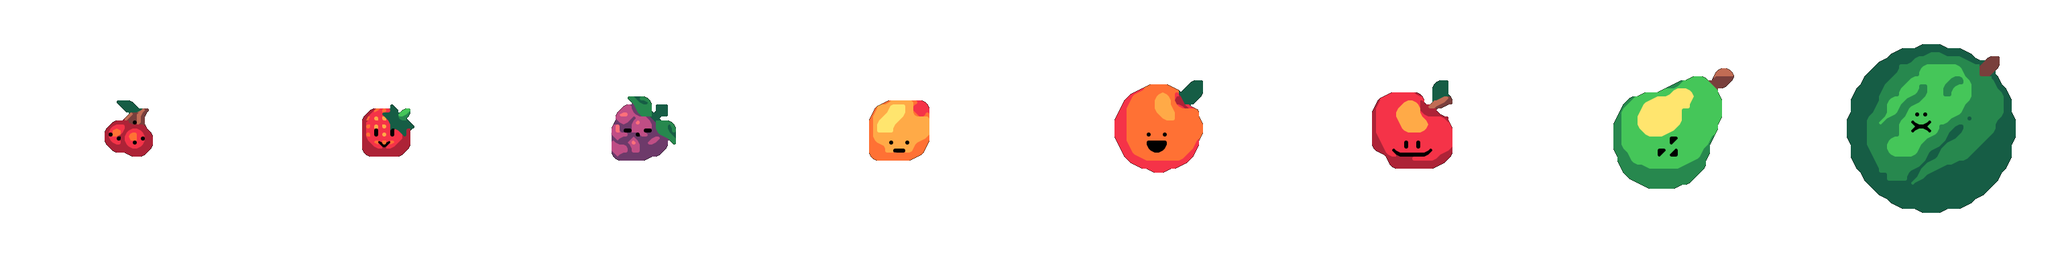
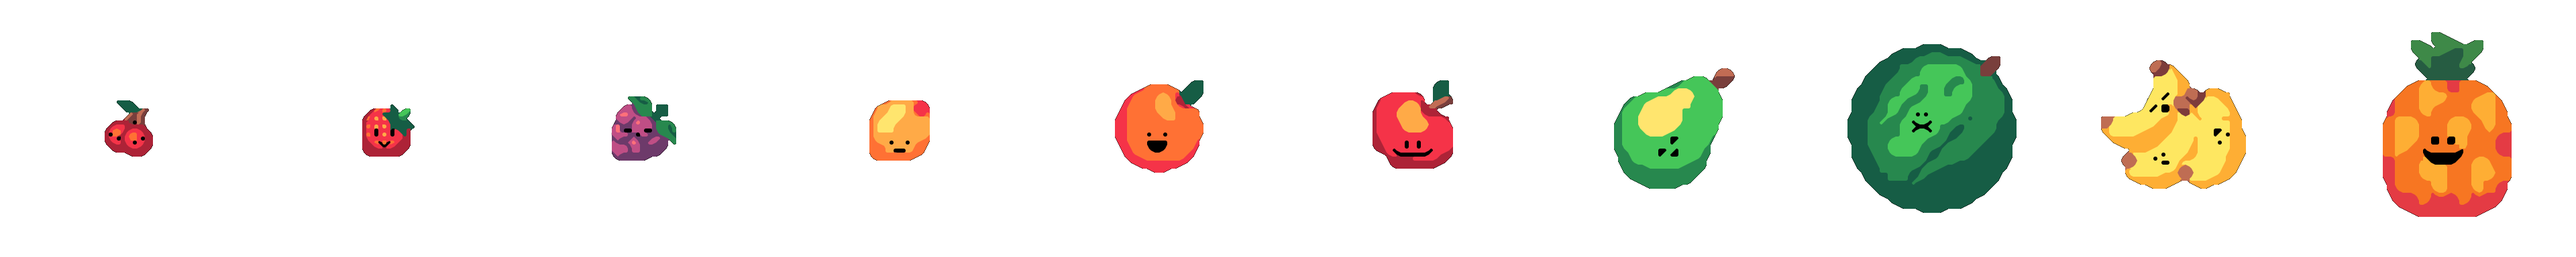
more work

diff --git a/apps/typegpu-docs/src/examples/rendering/suika-sdf/sdf-gen.ts b/apps/typegpu-docs/src/examples/rendering/suika-sdf/sdf-gen.ts
@@ -1,27 +1,22 @@
 const SPRITE_SIZE = 384;
 const FRUIT_COUNT = 10;
-const SHEET_SPLIT = 8;
 const MAX_DIST = SPRITE_SIZE / 2;
 
 async function loadImage(path: string): Promise<ImageBitmap> {
   const response = await fetch(path);
-  const blob = await response.blob();
-  return createImageBitmap(blob);
+  return createImageBitmap(await response.blob());
 }
 
 function drawFruitSlice(
   level: number,
   ctx: OffscreenCanvasRenderingContext2D,
-  sourceA: ImageBitmap,
-  sourceB: ImageBitmap,
+  source: ImageBitmap,
   dstX: number,
   dstY: number,
 ) {
-  const source = level < SHEET_SPLIT ? sourceA : sourceB;
-  const localIndex = level % SHEET_SPLIT;
   ctx.drawImage(
     source,
-    localIndex * SPRITE_SIZE,
+    level * SPRITE_SIZE,
     0,
     SPRITE_SIZE,
     SPRITE_SIZE,
@@ -40,13 +35,11 @@ function computeJfaSdf(
   const size = width * height;
   const maxDim = Math.max(width, height);
 
-  // Alpha mask: 1 = inside shape
   const inside = new Uint8Array(size);
   for (let i = 0; i < size; i++) {
     inside[i] = rgba[i * 4 + 3] > 128 ? 1 : 0;
   }
 
-  // Initialize seeds at boundary pixels (4-connected)
   const seedX = new Float32Array(size).fill(-1);
   const seedY = new Float32Array(size).fill(-1);
 
@@ -66,9 +59,12 @@ function computeJfaSdf(
     }
   }
 
-  // JFA iterations
-  let offset = Math.floor(maxDim / 2);
-  while (offset >= 1) {
+  // JFA passes
+  for (
+    let offset = Math.floor(maxDim / 2);
+    offset >= 1;
+    offset = Math.floor(offset / 2)
+  ) {
     const readX = seedX.slice();
     const readY = seedY.slice();
 
@@ -81,13 +77,19 @@ function computeJfaSdf(
 
         for (let dy = -1; dy <= 1; dy++) {
           for (let dx = -1; dx <= 1; dx++) {
-            if (dx === 0 && dy === 0) continue;
+            if (dx === 0 && dy === 0) {
+              continue;
+            }
             const sx = x + dx * offset;
             const sy = y + dy * offset;
-            if (sx < 0 || sx >= width || sy < 0 || sy >= height) continue;
+            if (sx < 0 || sx >= width || sy < 0 || sy >= height) {
+              continue;
+            }
 
             const sIdx = sy * width + sx;
-            if (readX[sIdx] < 0) continue;
+            if (readX[sIdx] < 0) {
+              continue;
+            }
 
             const dist = Math.hypot(x - readX[sIdx], y - readY[sIdx]);
             if (dist < bestDist) {
@@ -99,11 +101,8 @@ function computeJfaSdf(
         }
       }
     }
-
-    offset = Math.floor(offset / 2);
   }
 
-  // Signed distance: negative inside, positive outside
   const sdf = new Float32Array(size);
   for (let i = 0; i < size; i++) {
     const x = i % width;
@@ -123,31 +122,18 @@ export async function createAtlases(): Promise<{
   /** Boundary points per level, normalized to [-1, 1] relative to sprite center. */
   contours: Float32Array[];
 }> {
-  const [fruits1, fruits2] = await Promise.all([
-    loadImage('./assets/suika-sdf/fruits.png'),
-    loadImage('./assets/suika-sdf/fruits2.png'),
-  ]);
+  const fruits = await loadImage('./assets/suika-sdf/fruits.png');
 
-  // Build sprite atlas (vertical stack, 384 × 3840)
   const spriteCanvas = new OffscreenCanvas(
     SPRITE_SIZE,
     SPRITE_SIZE * FRUIT_COUNT,
   );
-  spriteCanvas.width = SPRITE_SIZE;
-  spriteCanvas.height = SPRITE_SIZE * FRUIT_COUNT;
   const spriteCtx = spriteCanvas.getContext('2d');
   if (!spriteCtx) {
     throw new Error('Failed to create sprite canvas context');
   }
 
-  for (let i = 0; i < FRUIT_COUNT; i++) {
-    drawFruitSlice(i, spriteCtx, fruits1, fruits2, 0, i * SPRITE_SIZE);
-  }
-
-  // Extract each sprite and compute SDF
   const tmpCanvas = new OffscreenCanvas(SPRITE_SIZE, SPRITE_SIZE);
-  tmpCanvas.width = SPRITE_SIZE;
-  tmpCanvas.height = SPRITE_SIZE;
   const tmpCtx = tmpCanvas.getContext('2d', { willReadFrequently: true });
   if (!tmpCtx) {
     throw new Error('Failed to create temporary canvas context');
@@ -156,43 +142,40 @@ export async function createAtlases(): Promise<{
   const sdfImageData = new ImageData(SPRITE_SIZE, SPRITE_SIZE * FRUIT_COUNT);
   const pixels = sdfImageData.data;
   const contours: Float32Array[] = [];
-  const center = SPRITE_SIZE * 0.5;
-  const invCenter = 1 / center;
+  const halfSize = SPRITE_SIZE / 2;
 
   for (let level = 0; level < FRUIT_COUNT; level++) {
     tmpCtx.clearRect(0, 0, SPRITE_SIZE, SPRITE_SIZE);
-    drawFruitSlice(level, tmpCtx, fruits1, fruits2, 0, 0);
+    drawFruitSlice(level, tmpCtx, fruits, 0, 0);
+    spriteCtx.drawImage(tmpCanvas, 0, level * SPRITE_SIZE);
 
     const imgData = tmpCtx.getImageData(0, 0, SPRITE_SIZE, SPRITE_SIZE);
-
-    // Extract boundary points (opaque pixels with a transparent neighbor)
     const alpha = imgData.data;
+
     const pts: number[] = [];
     for (let y = 0; y < SPRITE_SIZE; y++) {
       for (let x = 0; x < SPRITE_SIZE; x++) {
         const idx = y * SPRITE_SIZE + x;
-        if (alpha[idx * 4 + 3] <= 128) continue;
-        const hasTransparentNeighbor =
-          (x > 0 && alpha[(idx - 1) * 4 + 3] <= 128) ||
+        if (alpha[idx * 4 + 3] <= 128) {
+          continue;
+        }
+        const isBoundary = (x > 0 && alpha[(idx - 1) * 4 + 3] <= 128) ||
           (x < SPRITE_SIZE - 1 && alpha[(idx + 1) * 4 + 3] <= 128) ||
           (y > 0 && alpha[(idx - SPRITE_SIZE) * 4 + 3] <= 128) ||
           (y < SPRITE_SIZE - 1 && alpha[(idx + SPRITE_SIZE) * 4 + 3] <= 128);
-        if (hasTransparentNeighbor) {
-          pts.push((x - center) * invCenter, -(y - center) * invCenter);
+        if (isBoundary) {
+          pts.push((x - halfSize) / halfSize, -(y - halfSize) / halfSize);
         }
       }
     }
     contours.push(new Float32Array(pts));
 
     const sdf = computeJfaSdf(imgData.data, SPRITE_SIZE, SPRITE_SIZE);
-
     const baseIdx = level * SPRITE_SIZE * SPRITE_SIZE;
     for (let j = 0; j < SPRITE_SIZE * SPRITE_SIZE; j++) {
-      const normalized = Math.max(
-        0,
-        Math.min(1, (sdf[j] / MAX_DIST + 1) * 0.5),
+      const byte = Math.round(
+        Math.max(0, Math.min(1, (sdf[j] / MAX_DIST + 1) * 0.5)) * 255,
       );
-      const byte = Math.round(normalized * 255);
       const idx = (baseIdx + j) * 4;
       pixels[idx] = byte;
       pixels[idx + 1] = byte;

diff --git a/apps/typegpu-docs/src/examples/rendering/suika-sdf/physics.ts b/apps/typegpu-docs/src/examples/rendering/suika-sdf/physics.ts
@@ -1,11 +1,9 @@
-import RAPIER from '@dimforge/rapier2d-compat';
+import RAPIER, { type Vector2 } from '@dimforge/rapier2d-compat';
 
 export interface BallState {
-  x: number;
-  y: number;
+  pos: Vector2;
+  vel: Vector2;
   angle: number;
-  vx: number;
-  vy: number;
 }
 
 export interface PhysicsWorld {
@@ -24,6 +22,7 @@ export interface PhysicsWorld {
   removeBall(handle: number): void;
 }
 
+// Fruit levels 0–9 use collision bits 0–9; walls use bit 10 to collide with all
 const WALL_BIT = 10;
 
 export async function createPhysicsWorld(
@@ -33,87 +32,60 @@ export async function createPhysicsWorld(
 
   const world = new RAPIER.World({ x: 0, y: -1.9 });
 
-  // Walls: member of group 10, collides with everything
   const wallGroup = ((1 << WALL_BIT) << 16) | 0xffff;
-  for (const wall of walls) {
-    const colliderDesc = RAPIER.ColliderDesc.cuboid(wall.hw, wall.hh)
-      .setTranslation(wall.cx, wall.cy)
-      .setRestitution(0.2)
-      .setFriction(0.6)
-      .setCollisionGroups(wallGroup);
-    world.createCollider(colliderDesc);
+  for (const { cx, cy, hw, hh } of walls) {
+    world.createCollider(
+      RAPIER.ColliderDesc.cuboid(hw, hh)
+        .setTranslation(cx, cy)
+        .setRestitution(0.2)
+        .setFriction(0.6)
+        .setCollisionGroups(wallGroup),
+    );
   }
 
   const ballBodies: (RAPIER.RigidBody | null)[] = [];
-
-  function makeBall(
-    x: number,
-    y: number,
-    vx: number,
-    vy: number,
-    radius: number,
-    contour: Float32Array,
-    level: number,
-    angle: number,
-  ) {
-    const bodyDesc = RAPIER.RigidBodyDesc.dynamic()
-      .setTranslation(x, y)
-      .setLinvel(vx, vy)
-      .setRotation(angle);
-    const body = world.createRigidBody(bodyDesc);
-
-    const scaled = new Float32Array(contour.length);
-    for (let i = 0; i < contour.length; i++) {
-      scaled[i] = contour[i] * radius;
-    }
-
-    // Same-level balls don't collide: membership = bit(level), filter = all except bit(level)
-    const membership = 1 << level;
-    const filter = 0xffff ^ (1 << level);
-    const group = (membership << 16) | filter;
-
-    const colliderDesc = (
-      RAPIER.ColliderDesc.convexHull(scaled) ?? RAPIER.ColliderDesc.ball(radius)
-    )
-      .setRestitution(0.2)
-      .setFriction(0.1)
-      .setCollisionGroups(group);
-    world.createCollider(colliderDesc, body);
-
-    ballBodies.push(body);
-  }
 
   return {
     step(dt: number) {
       world.timestep = dt;
       world.step();
     },
+
     getBallState(handle: number): BallState | null {
       const body = ballBodies[handle];
-      if (!body) return null;
-      const pos = body.translation();
-      const vel = body.linvel();
+      if (!body) {
+        return null;
+      }
       return {
-        x: pos.x,
-        y: pos.y,
+        pos: body.translation(),
+        vel: body.linvel(),
         angle: body.rotation(),
-        vx: vel.x,
-        vy: vel.y,
       };
     },
-    addBall(
-      x: number,
-      y: number,
-      radius: number,
-      contour: Float32Array,
-      level: number,
-      vx = 0,
-      vy = 0,
-      angle = 0,
-    ): number {
-      makeBall(x, y, vx, vy, radius, contour, level, angle);
+
+    addBall(x, y, radius, contour, level, vx = 0, vy = 0, angle = 0): number {
+      const body = world.createRigidBody(
+        RAPIER.RigidBodyDesc.dynamic()
+          .setTranslation(x, y)
+          .setLinvel(vx, vy)
+          .setRotation(angle),
+      );
+
+      // Same-level fruits don't collide with each other
+      const group = ((1 << level) << 16) | (0xffff ^ (1 << level));
+      world.createCollider(
+        (RAPIER.ColliderDesc.convexHull(contour.map((v) => v * radius)) ??
+          RAPIER.ColliderDesc.ball(radius))
+          .setRestitution(0.2)
+          .setFriction(0.1)
+          .setCollisionGroups(group),
+        body,
+      );
+
+      ballBodies.push(body);
       return ballBodies.length - 1;
     },
+
     removeBall(handle: number) {
       const body = ballBodies[handle];
       if (body) {

diff --git a/apps/typegpu-docs/src/examples/rendering/suika-sdf/index.ts b/apps/typegpu-docs/src/examples/rendering/suika-sdf/index.ts
@@ -321,17 +321,17 @@ function checkMerges() {
       const sb = frameStates[j];
       if (!sb) continue;
 
-      const dx = sa.x - sb.x;
-      const dy = sa.y - sb.y;
+      const dx = sa.pos.x - sb.pos.x;
+      const dy = sa.pos.y - sb.pos.y;
       if (dx * dx + dy * dy < mergeDist * mergeDist) {
         markDead(a);
         markDead(b);
         spawnFruit(
           a.level + 1,
-          (sa.x + sb.x) * 0.5,
-          (sa.y + sb.y) * 0.5,
-          (sa.vx + sb.vx) * 0.5,
-          (sa.vy + sb.vy) * 0.5,
+          (sa.pos.x + sb.pos.x) * 0.5,
+          (sa.pos.y + sb.pos.y) * 0.5,
+          (sa.vel.x + sb.vel.x) * 0.5,
+          (sa.vel.y + sb.vel.y) * 0.5,
           Math.atan2(
             Math.sin(sa.angle) + Math.sin(sb.angle),
             Math.cos(sa.angle) + Math.cos(sb.angle),
@@ -372,7 +372,7 @@ function frame() {
     frameStates[i] = state;
     if (drawCount < MAX_FRUITS) {
       circleData[drawCount] = {
-        center: d.vec2f(state.x, state.y),
+        center: d.vec2f(state.pos.x, state.pos.y),
         radius: f.radius,
         level: f.level,
         angle: state.angle,
